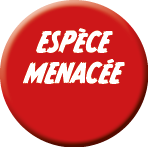
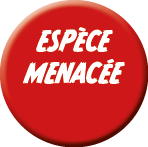
Fin du design

diff --git a/IHM_AJOUT/CLIENT.xaml b/IHM_AJOUT/CLIENT.xaml
@@ -42,27 +42,41 @@
         <!--============================================================================-->
 
         <!--Grille d'affichage de l'animal recherché-->
-        <Grid x:Name="Grid_Info">
+        <Grid x:Name="Grid_Info" Background="#FF009EE4">
+
+            <Image Margin="0,0,1587,647" Source="/haut-gauche.png" Stretch="Fill"/>
+
+            <Image Source="/critere.png" Stretch="Fill" Height="148" Width="148" Margin="468,844,1304,72"/>
+
+
+            <Image Margin="726,330,730,269" Source="/rond.png" Stretch="Fill"/>
+
+            <Image Margin="1529,0,0,647" Source="/haut-droite.png" Stretch="Fill"/>
 
             <Button x:Name="Button_Close" Content="X" HorizontalAlignment="Right" VerticalAlignment="Top" Height="60" Width="60" Background="Red" FontSize="30" Click="Button_Close_Click"/>
 
 
             <StackPanel HorizontalAlignment="Left" VerticalAlignment="Bottom">
                 <StackPanel Margin="40">
-                    <StackPanel Margin="20" Width="300">
-                        <Label x:Name="Label_Famille" Content="Famille" Width="150" HorizontalAlignment="Right" VerticalAlignment="Bottom" Background="#FF00FF15" Margin="0,0,0,20"/>
-                        <Label x:Name="Label_Ordre" Content="Ordre" Width="150" HorizontalAlignment="Right" VerticalAlignment="Bottom" Background="#FF02FF00" Margin="0,0,0,20"/>
-                        <Label x:Name="Label_Classe" Content="Classe" Width="150" HorizontalAlignment="Right" VerticalAlignment="Bottom" Background="#FF1FFF00" Margin="0,0,0,20"/>
-                        <Label x:Name="Label_Embranchement" Width="150" Content="Embranchement" HorizontalAlignment="Right" VerticalAlignment="Bottom" Background="#FF08FF00" Margin="0"/>
-                    </StackPanel>
+                    <Grid Margin="20" Width="300">
+                        <Image Source="/arbre.png" Stretch="Fill" Height="250" Width="300"/>
+
+                        <StackPanel HorizontalAlignment="Right" VerticalAlignment="Bottom" Margin="0,0,0,5">
+                            <Label x:Name="Label_Famille" Margin="0,0,0,0"   Content="Famille"  Width="150" Background="{x:Null}" Foreground="Black" HorizontalAlignment="Center" VerticalAlignment="Center" FontWeight="Bold" FontSize="16"/>
+                            <Label x:Name="Label_Ordre" Margin="0,0,0,0"   Content="Ordre" Width="150" Background="{x:Null}" Foreground="Black" HorizontalAlignment="Center" VerticalAlignment="Center" FontWeight="Bold" FontSize="16"/>
+                            <Label x:Name="Label_Classe" Margin="0,0,0,0"   Content="Classe" Width="150" Background="{x:Null}" Foreground="Black" HorizontalAlignment="Center" VerticalAlignment="Center" FontWeight="Bold" FontSize="16"/>
+                            <Label x:Name="Label_Embranchement" Margin="0,0,0,0"   Content="Embranchement" Width="150" Background="{x:Null}" Foreground="Black" HorizontalAlignment="Center" VerticalAlignment="Center" FontWeight="Bold" FontSize="16"/>
+                        </StackPanel>
+                    </Grid>
 
                 </StackPanel>
                 <TextBlock x:Name="Tbx_Description_Global" HorizontalAlignment="Left" TextWrapping="Wrap" Height="450" Width="450" Text="TextBlock" VerticalAlignment="Bottom" Background="#FFFFEA00"/>
                 <StackPanel Orientation="Horizontal">
                     <TextBlock x:Name="Text_UICN" HorizontalAlignment="Left" TextWrapping="Wrap" Text="TextBlock" Height="200" Width="450" VerticalAlignment="Top" Background="Red"/>
-                    <TextBlock x:Name="Text_Critere_Menace" HorizontalAlignment="Left" TextWrapping="Wrap" Text="TextBlock" Margin="20" VerticalAlignment="Top" Background="Red"/>
+                    <TextBlock x:Name="Text_Critere_Menace" Margin="45,0,0,15" TextWrapping="Wrap" Text="TextBlock" Height="28" Width="93" FontSize="20" FontWeight="Bold" FontFamily="Trebuchet MS"/>
                 </StackPanel>
             </StackPanel>
+
 
             <StackPanel HorizontalAlignment="Center" VerticalAlignment="Top" Margin="0,30,0,0">
                 <Label x:Name="Label_Titre_Animal" Content="Le titre" HorizontalAlignment="Center" VerticalAlignment="Top" FontSize="70" FontWeight="Bold" HorizontalContentAlignment="Center"/>
@@ -70,35 +84,55 @@
             </StackPanel>
 
             <StackPanel HorizontalAlignment="Center" VerticalAlignment="Center">
-                <TextBlock x:Name="Text_Info_Pratique" HorizontalAlignment="Left" Margin="0,10,0,30" TextWrapping="Wrap" Text="TextBlock" FontSize="20" Width="100" VerticalAlignment="Top" Foreground="Black" Background="#FFFFEA00"/>
-                <Image x:Name="Img_Animal_1" HorizontalAlignment="Left" VerticalAlignment="Top" Width="550" Source="/Capture d’écran 2025-01-20 à 11.01.50.png"/>
+                <!-- Superposition avec Grid -->
+                <Grid Width="250" Height="150">
+                    <!-- Image en arrière-plan -->
+                    <Image Source="/chat.png" Stretch="Fill" />
+
+                    <!-- Texte superposé -->
+                    <TextBlock x:Name="Text_Info_Pratique" Text="Texte info pratique" 
+                   HorizontalAlignment="Center" 
+                   VerticalAlignment="Center" 
+                   FontSize="24" 
+                   FontWeight="Bold" 
+                   Foreground="Black" 
+                   Padding="0,0,0,50"
+                   TextAlignment="Center"/>
+                </Grid>
+
+                <!-- Deuxième image avec masque -->
+                <Image x:Name="Img_Animal_1" 
+           Width="441" 
+           Source="/Capture d’écran 2025-01-20 à 11.01.50.png" 
+           Margin="0,0,0,85" 
+           Height="368" 
+           Stretch="Fill">
+                    <Image.OpacityMask>
+                        <ImageBrush ImageSource="/rond.png" Stretch="Uniform" TileMode="None" />
+                    </Image.OpacityMask>
+                </Image>
             </StackPanel>
 
             <Label x:Name="Label_Localisation" Content="Pays" VerticalAlignment="Bottom" HorizontalAlignment="Center" Background="#FF1300FF"/>
 
             <StackPanel VerticalAlignment="Top" HorizontalAlignment="Right" Margin="0,100,100,0">
                 <Image x:Name="Img_Animal_2" HorizontalAlignment="Left" VerticalAlignment="Top" Width="400" Source="/Capture d’écran 2025-01-20 à 11.01.50.png"/>
-                <StackPanel>
-                    <Label x:Name="Label_Habitat" Width="100" Content="Habitat" HorizontalAlignment="Center" Margin="0,70,0,20" VerticalAlignment="Top" Background="#FFE600FF"/>
-                    <Label x:Name="Label_Taille" Width="100" Content="Taille" HorizontalAlignment="Center" Margin="0,0,0,20" VerticalAlignment="Top" Background="#FFE600FF"/>
-                    <Label x:Name="Label_Poids" Width="100" Content="Poids" HorizontalAlignment="Center" Margin="0,0,0,20" VerticalAlignment="Top" Background="#FFE600FF"/>
-                    <Label x:Name="Label_Duree_Vie" Width="100" Content="Duree de vie" HorizontalAlignment="Center" Margin="0,0,0,20" VerticalAlignment="Top" Background="#FFE600FF"/>
-                </StackPanel>
+                <Grid Width="300" Height="250" Margin="10">
+                    <!-- Image en arrière-plan -->
+                    <Image Source="/truc.png" Stretch="Fill"/>
+
+                    <!-- Labels superposés -->
+                    <StackPanel VerticalAlignment="Top" HorizontalAlignment="Center" Margin="0,20,0,0">
+                        <Label x:Name="Label_Habitat" Width="93" Content="Habitat" Background="{x:Null}" Foreground="Black" HorizontalAlignment="Center" Margin="100,-10,0,10" FontSize="25"/>
+                        <Label x:Name="Label_Taille" Width="59" Content="Taille" Background="{x:Null}" Foreground="Black" HorizontalAlignment="Center" Margin="100,5,0,10" FontSize="20"/>
+                        <Label x:Name="Label_Poids" Width="62" Content="Poids" Background="{x:Null}" Foreground="Black" HorizontalAlignment="Center" Margin="100,15,0,10" FontSize="20"/>
+                        <Label x:Name="Label_Duree_Vie" Width="127" Content="Durée de vie" Background="{x:Null}" Foreground="Black" HorizontalAlignment="Center" Margin="100,25,0,10" FontSize="20"/>
+                    </StackPanel>
+                </Grid>
                 <Image x:Name="Img_Animal_3" HorizontalAlignment="Right" VerticalAlignment="Top" Margin="0,150" Width="300" Source="/Capture d’écran 2025-01-20 à 11.01.50.png"/>
-
             </StackPanel>
-
-
-            <!--Label Titre--><!--
-             
-            --><!--Image--><!--
-
-            --><!--Description--><!--
-            
-            --><!--Label Information--><!--
-            
-            --><!--Button close-->
-            
+            <Image Margin="1595,743,0,0" Source="/bas-droite.png" Stretch="Fill"/>
+            <Image Margin="-28,700,1587,0" Source="/bas-gauche.png" Stretch="Fill"/>
         </Grid>
     </Grid>
 </Window>

diff --git a/IHM_AJOUT/App.xaml b/IHM_AJOUT/App.xaml
@@ -2,7 +2,7 @@
              xmlns="http://schemas.microsoft.com/winfx/2006/xaml/presentation"
              xmlns:x="http://schemas.microsoft.com/winfx/2006/xaml"
              xmlns:local="clr-namespace:IHM_BASE"
-             StartupUri="MainMenu.xaml">
+             StartupUri="CLIENT.xaml">
     <Application.Resources>
          
     </Application.Resources>